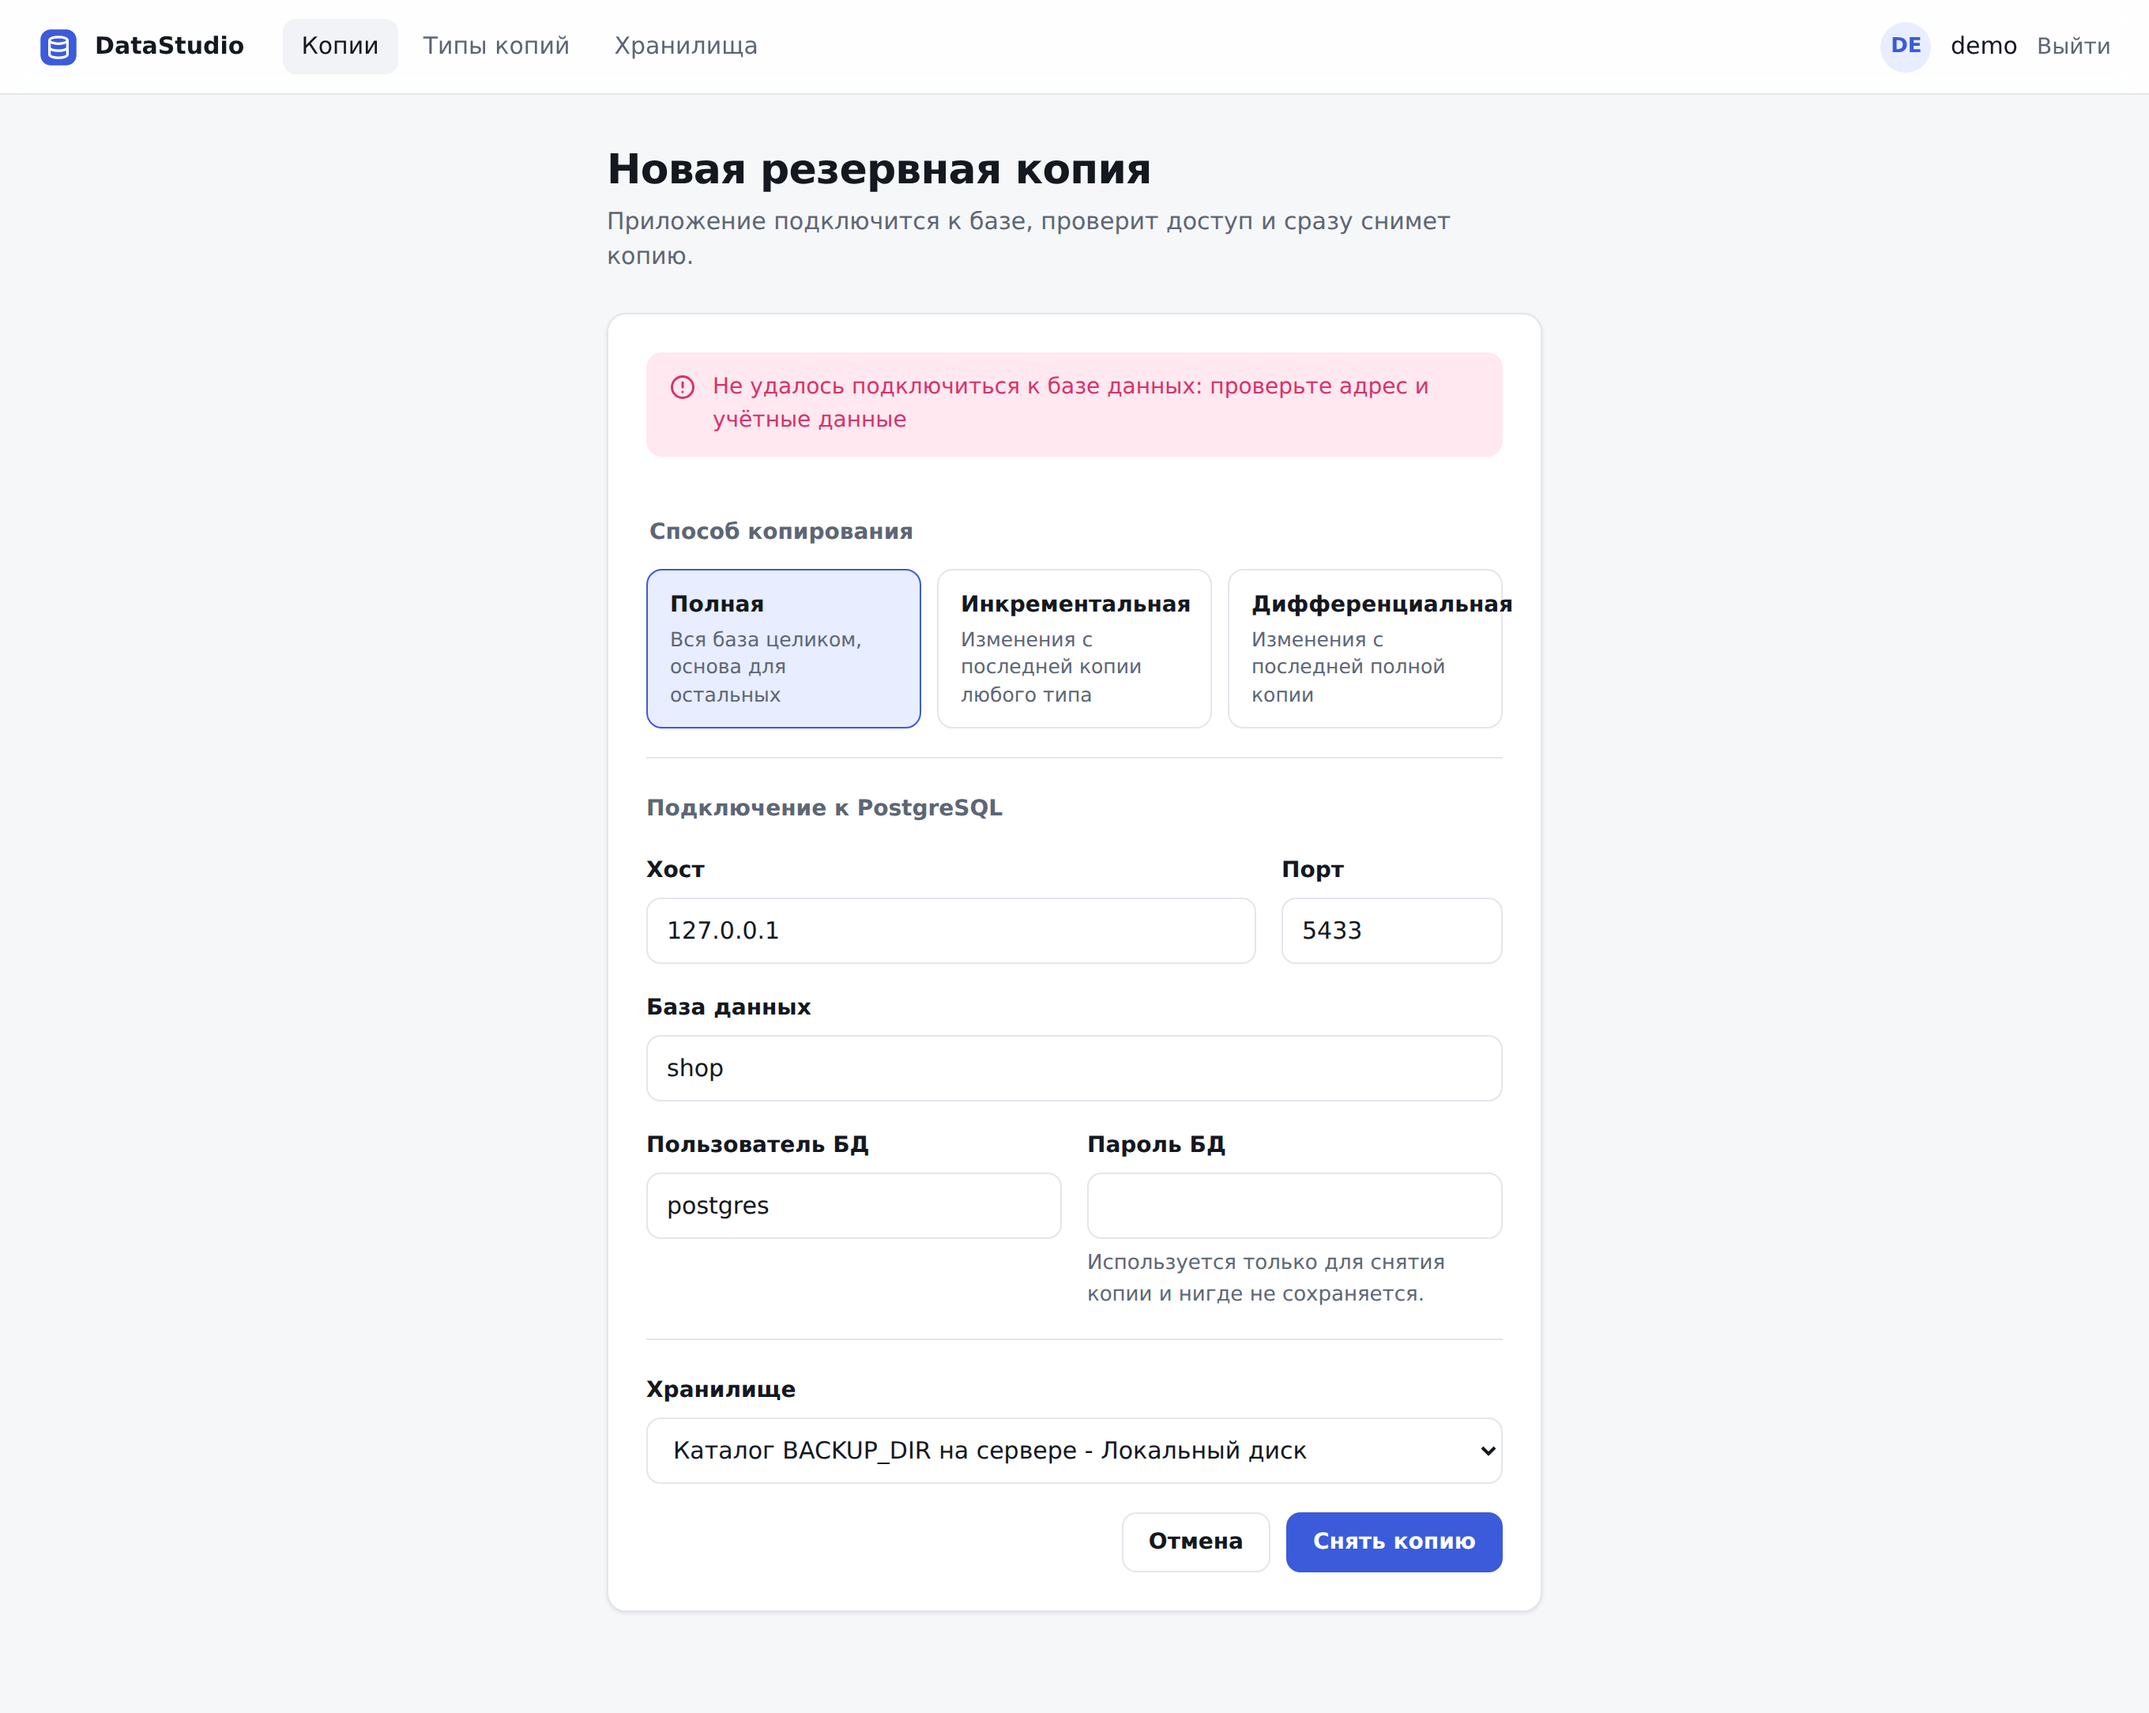
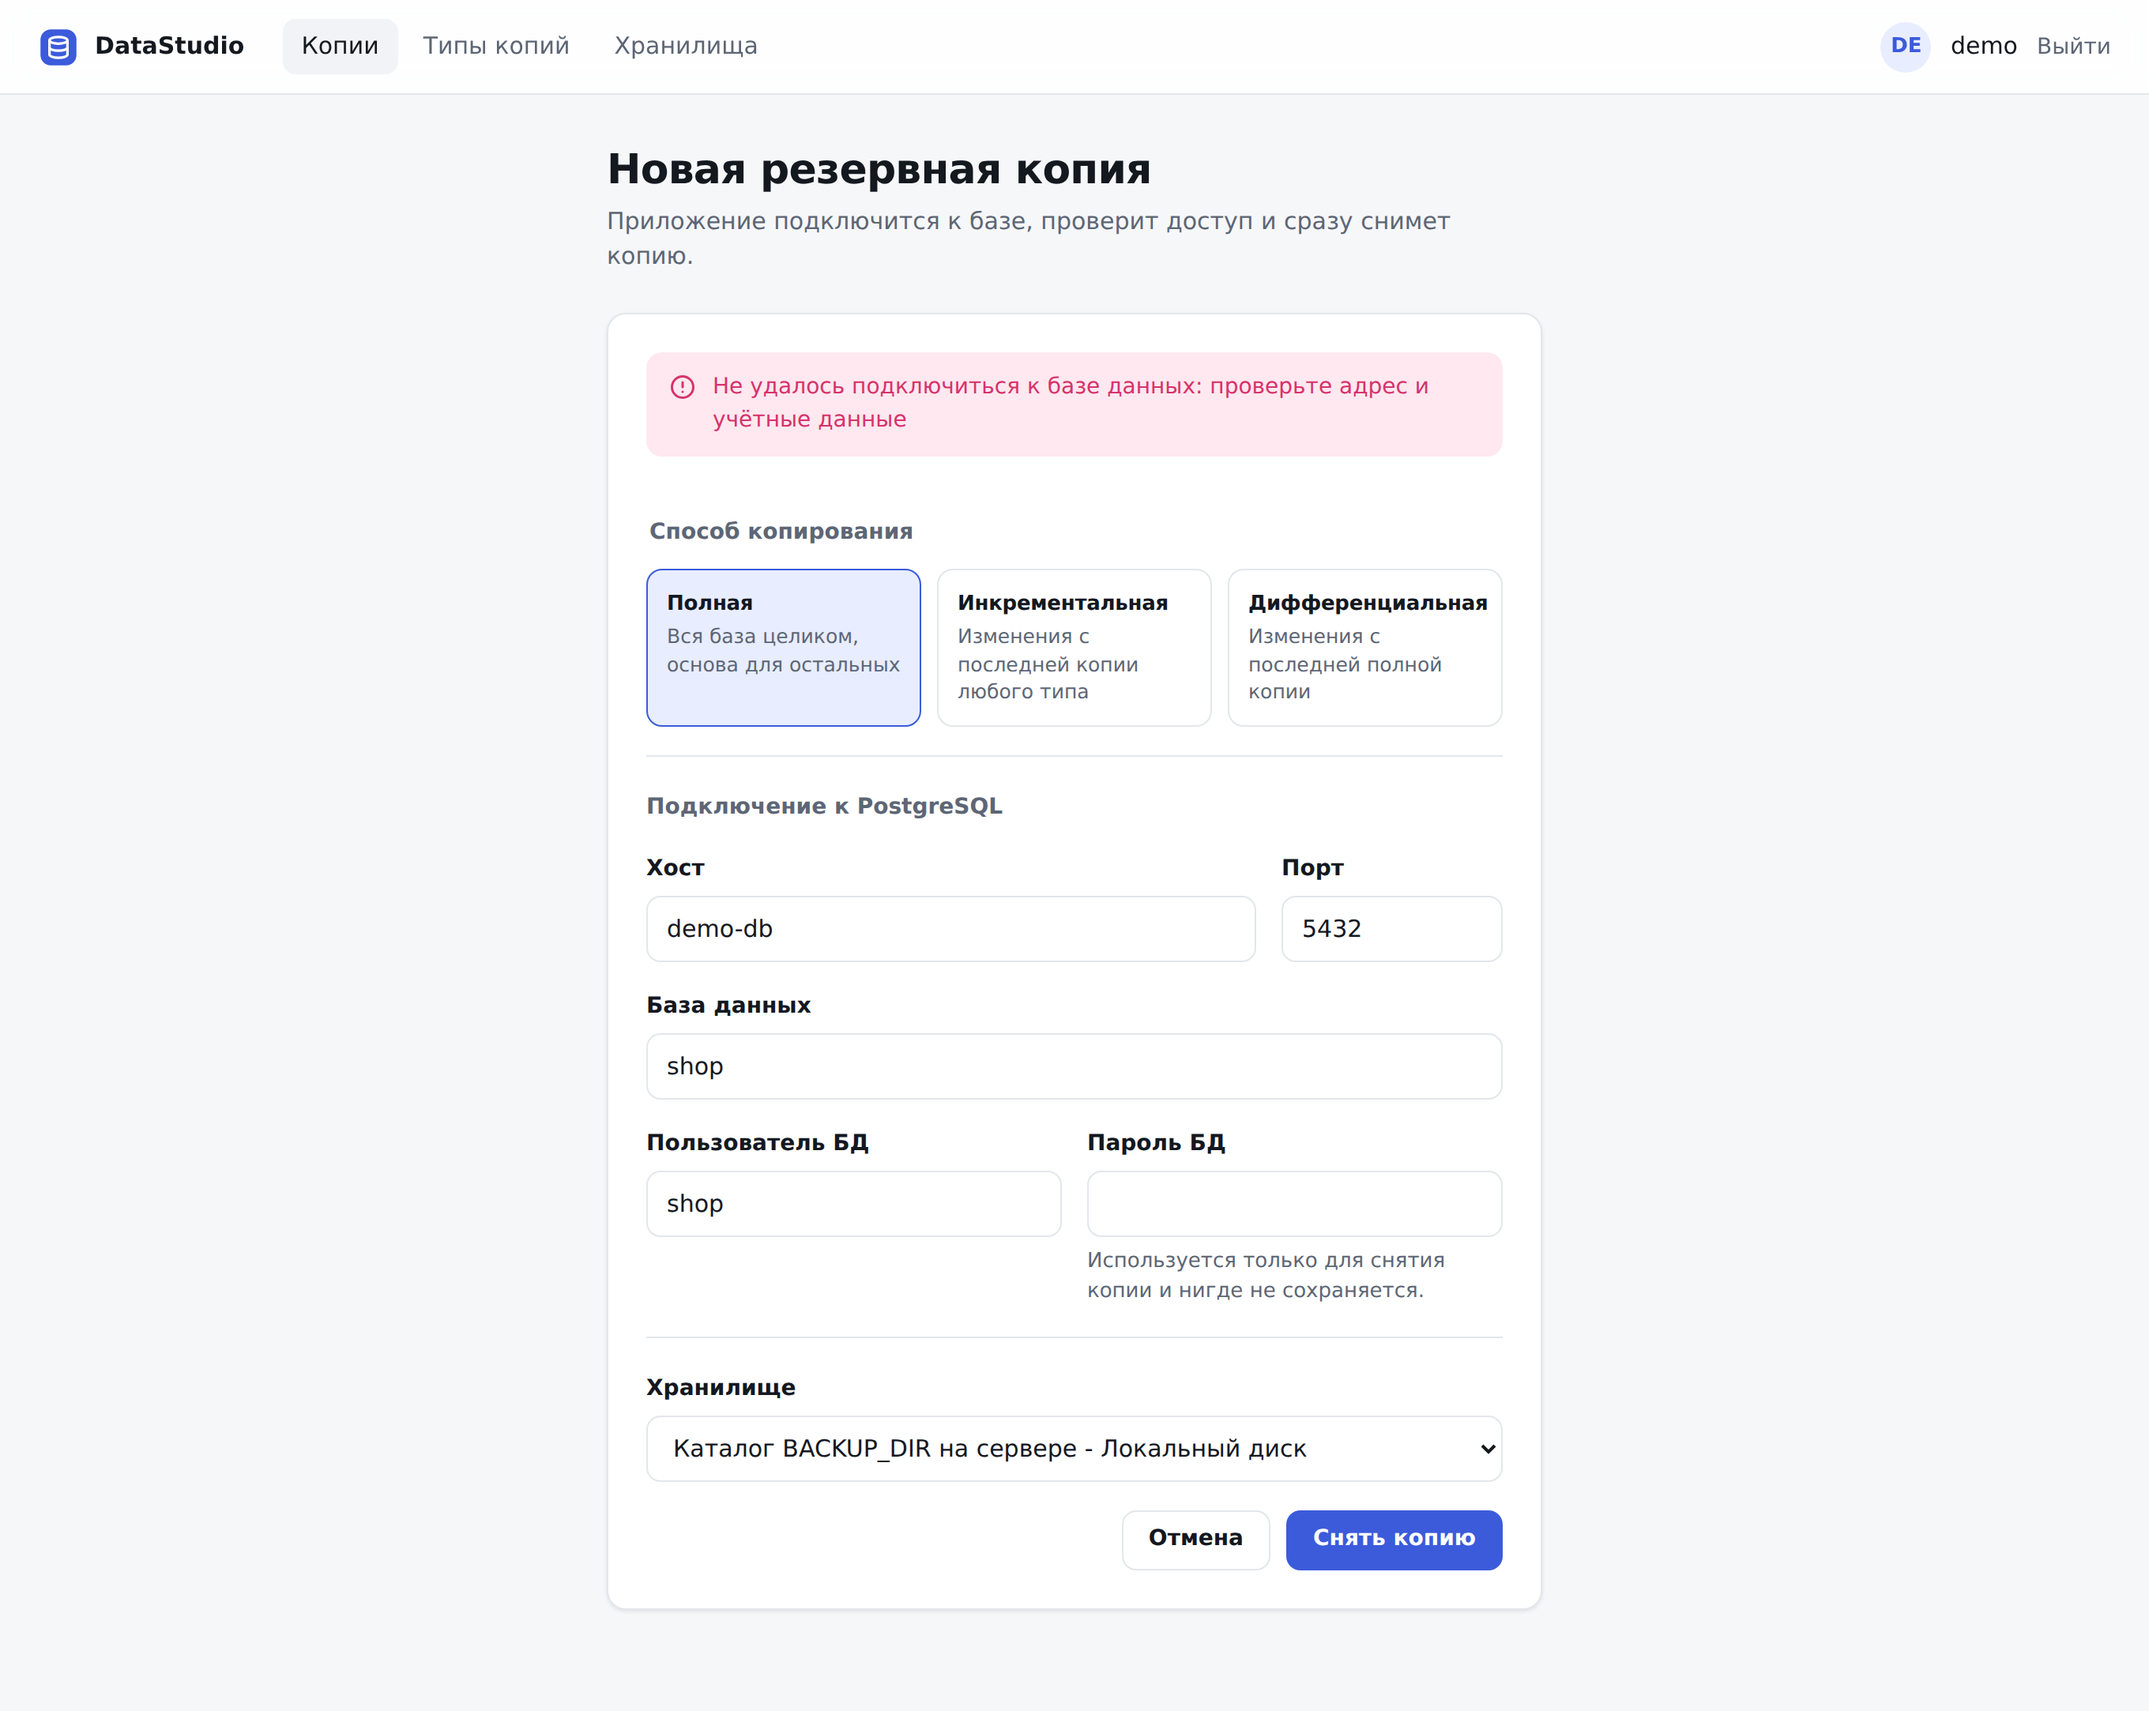
Скриншоты по сценарию из README и правки вёрстки
- Скриншоты сняты на демо из быстрого старта (demo-db:5432, пользователь
  shop): полные, инкрементальные и дифференциальные копии двух баз,
  созданные через интерфейс; для наглядности время копий разнесено
  по неделе.
- Название «Дифференциальная» больше не вылезает за карточку выбора типа.
- Мобильная карточка копии: бейдж типа отдельной строкой, хост и дата
  не переносятся; на узких экранах шапка без логотипа, чтобы навигация
  помещалась целиком.

Claude-Session: https://claude.ai/code/session_017Pr56JmAd1Pzd3zMyTctkJ

diff --git a/core/static/core/app.css b/core/static/core/app.css
@@ -220,11 +220,11 @@ tbody tr:hover td { background: color-mix(in srgb, var(--surface-2) 55%, transpa
 .choice-grid { display: grid; gap: 10px; grid-template-columns: repeat(3, minmax(0, 1fr)); }
 .choice input { position: absolute; opacity: 0; pointer-events: none; }
 .choice span {
-  display: block; height: 100%; padding: 12px 14px;
+  display: block; height: 100%; padding: 12px;
   border: 1px solid var(--border); border-radius: 10px;
   cursor: pointer; transition: border-color .15s, background .15s;
 }
-.choice strong { display: block; font-size: 14px; }
+.choice strong { display: block; font-size: 13px; letter-spacing: -.01em; }
 .choice small { display: block; margin-top: 2px; color: var(--muted); font-size: 12.5px; line-height: 1.4; }
 .choice input:checked + span { border-color: var(--accent); background: var(--accent-soft); }
 .choice input:focus-visible + span { box-shadow: 0 0 0 3px color-mix(in srgb, var(--accent) 22%, transparent); }
@@ -326,9 +326,10 @@ tbody tr:hover td { background: color-mix(in srgb, var(--surface-2) 55%, transpa
   .backup-table tbody tr:last-child { border-bottom: 0; }
   .backup-table td { padding: 0; border: 0; background: none !important; }
   .backup-table td.hide-sm { display: none; }
-  .backup-table td:nth-child(2) { grid-column: 2; grid-row: 1; justify-self: end; }
-  .backup-table td:nth-child(5) { grid-column: 1; grid-row: 2; }
-  .backup-table td:nth-child(6) { grid-column: 2; grid-row: 2; align-self: center; }
+  .backup-table td:nth-child(1) { grid-column: 1; grid-row: 1; }
+  .backup-table td:nth-child(6) { grid-column: 2; grid-row: 1; align-self: start; }
+  .backup-table td:nth-child(2) { grid-column: 1; grid-row: 2; justify-self: start; }
+  .backup-table td:nth-child(5) { grid-column: 1 / -1; grid-row: 3; }
 }
 
 .user .username { color: var(--text); font-weight: 500; }
@@ -336,3 +337,7 @@ tbody tr:hover td { background: color-mix(in srgb, var(--surface-2) 55%, transpa
 .error-page { min-height: 100vh; display: grid; place-items: center; padding: 24px; text-align: center; }
 .error-page__code { font-size: 64px; font-weight: 800; letter-spacing: -.04em; color: var(--accent); }
 .error-page p { margin: 8px 0 24px; color: var(--muted); }
+
+@media (max-width: 420px) {
+  .topbar .brand { display: none; }
+}
